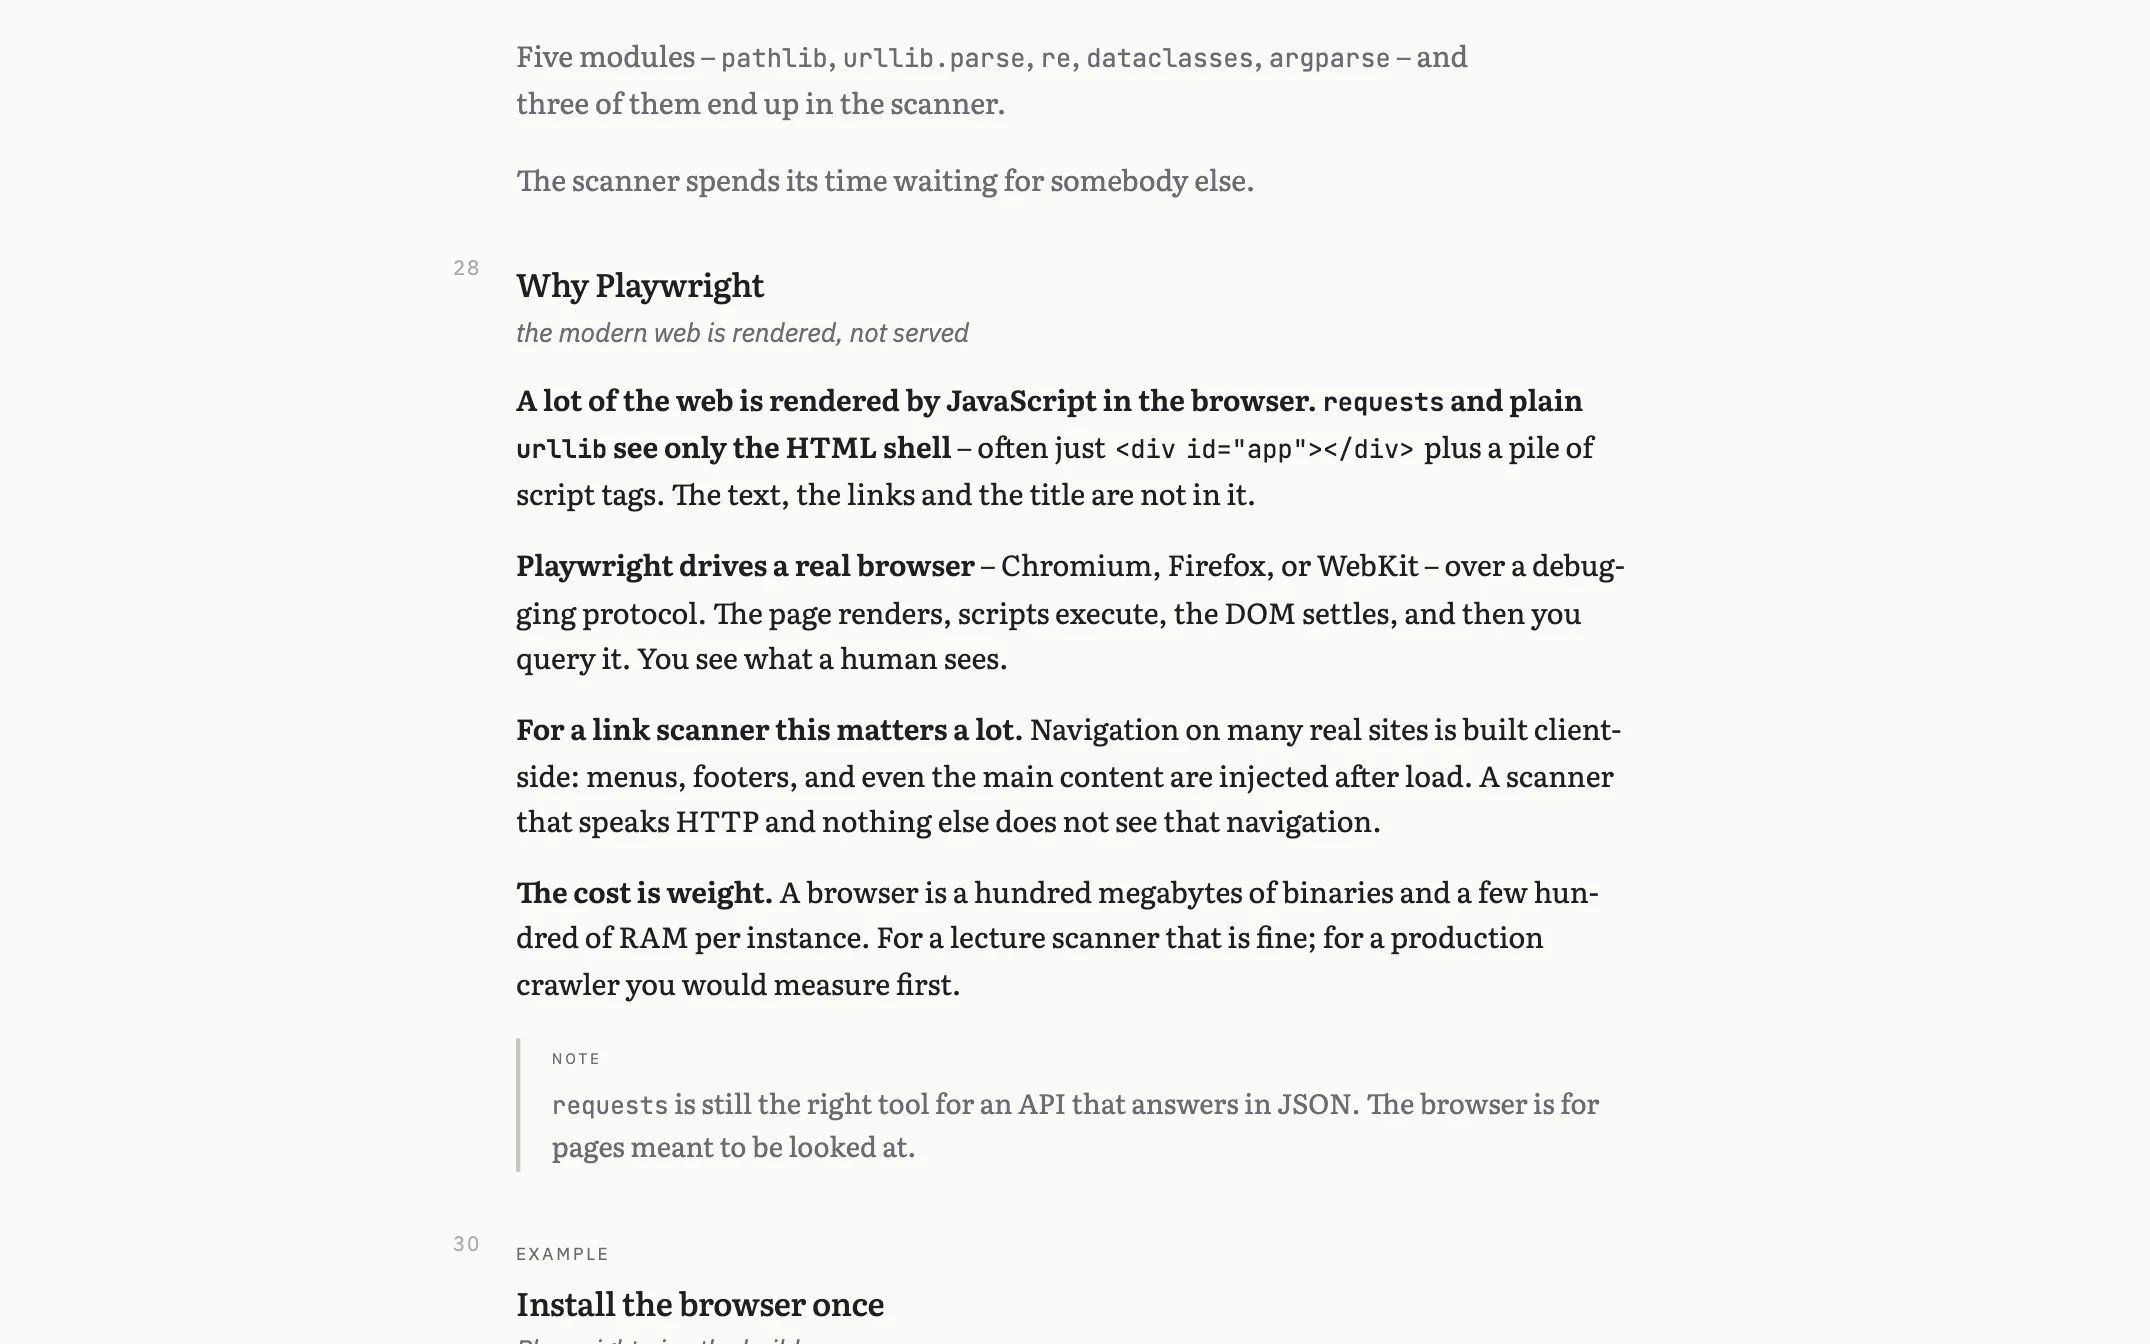
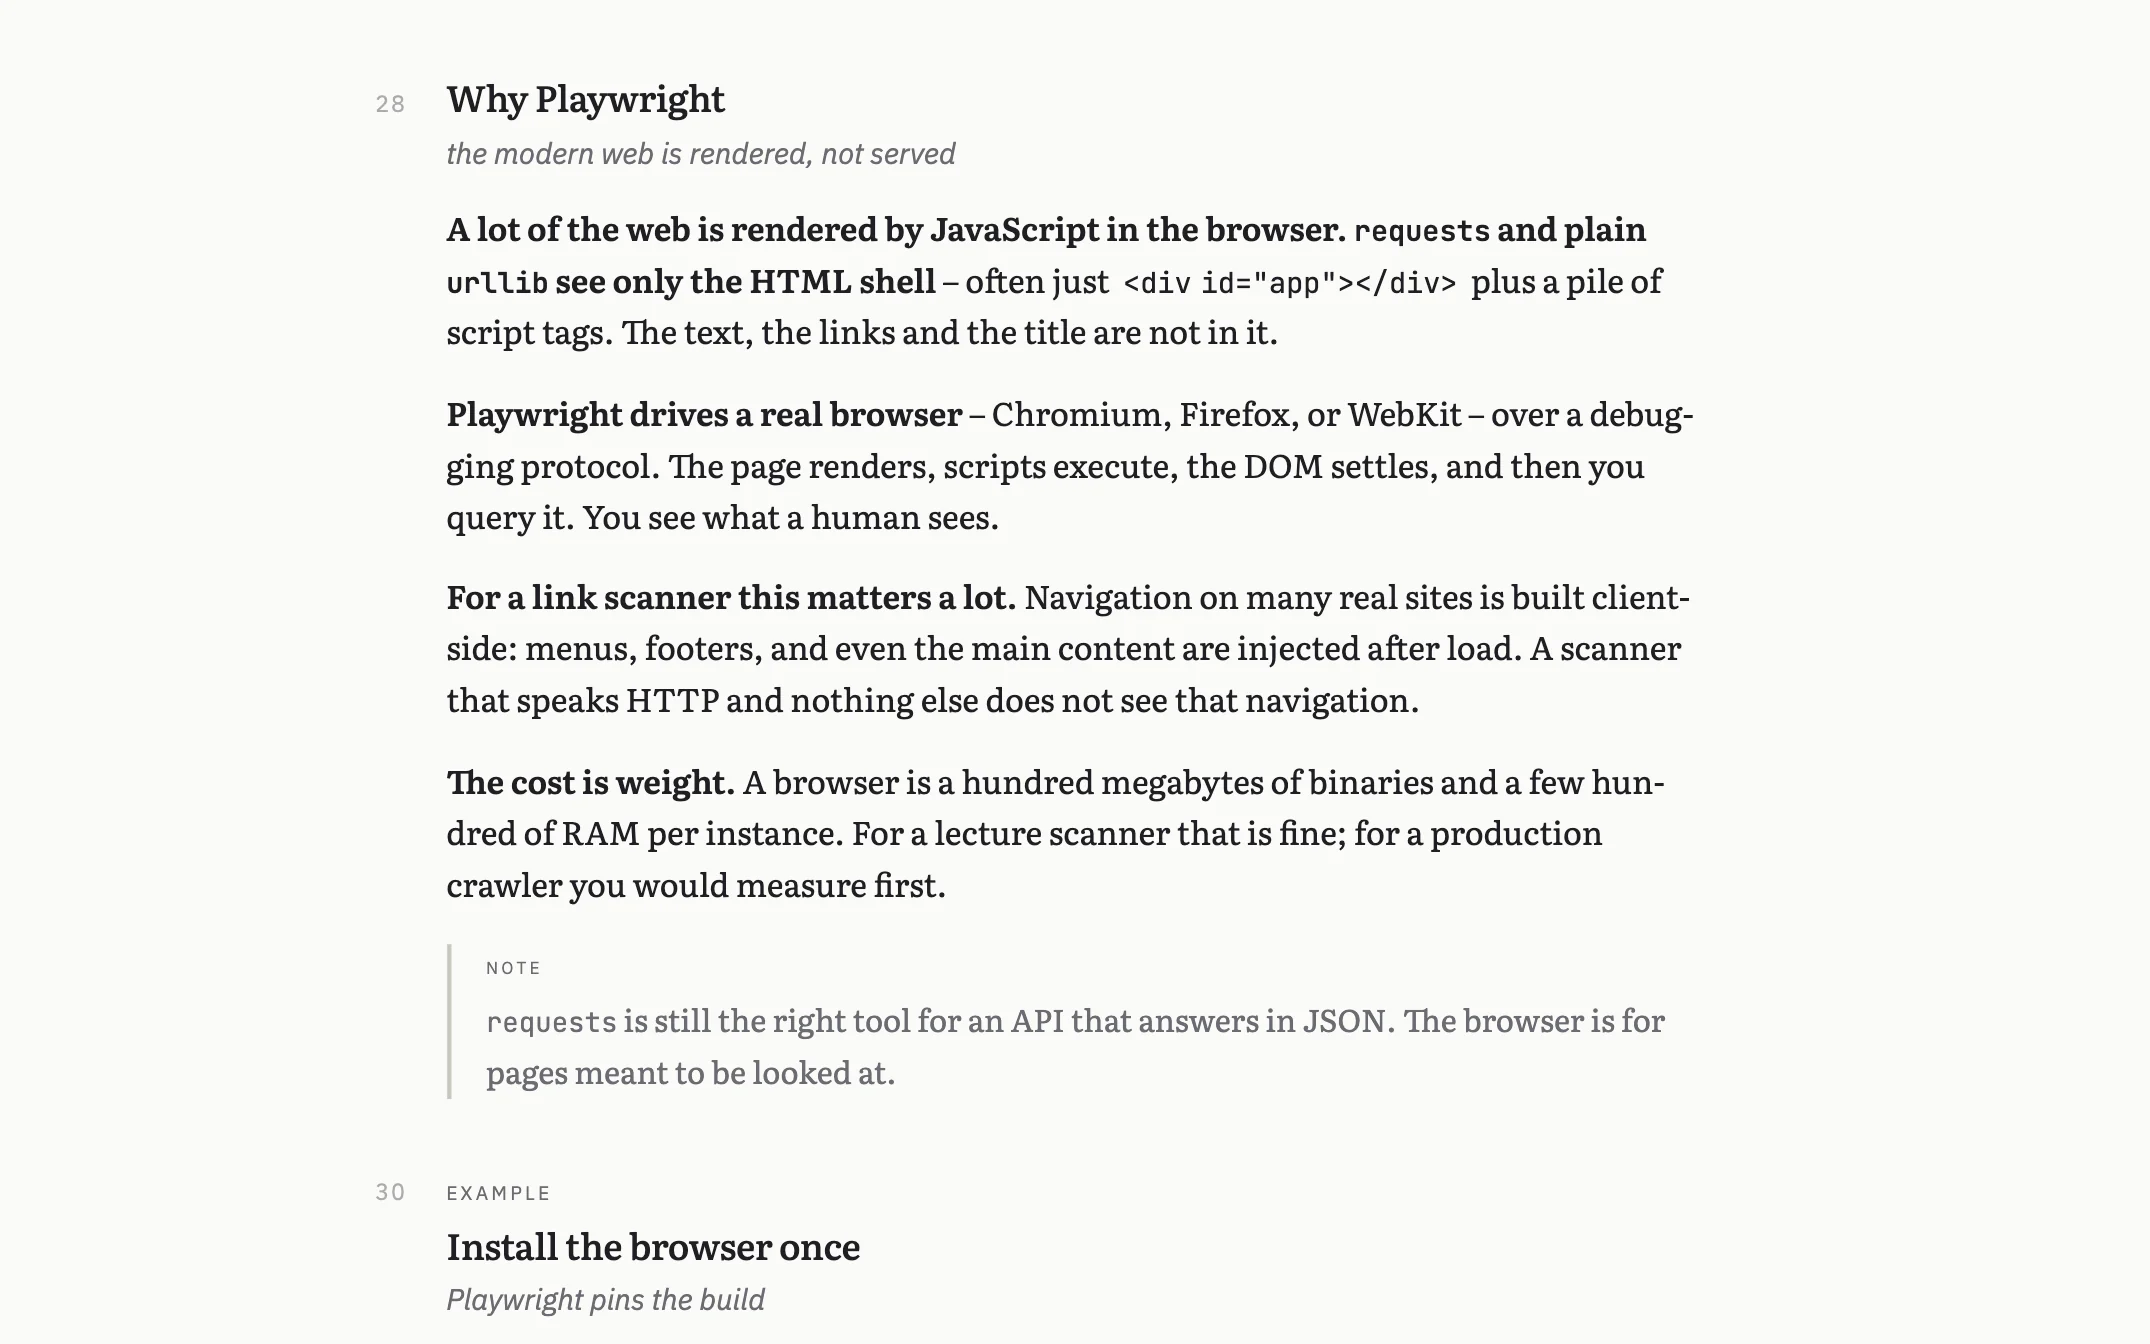
python-intro shots re-taken after the engine moved: reader tools, start menu
The drift was the engine's, not the lecture's. Per shot:

- printed: paper, so no reader tools. A new PAPER_RIG takes rd-ready and
  the Contents button away again, which puts the text back in the centre
  (print media was tried: without @page the text sits against the left edge
  and loses its margin numbers). Framed from the chunk's heading now.
- handout, handout-plain: the file in a browser window, so the Contents
  button stays - it is what a reader of print.html sees. The crop went from
  470 to 640 rows, starting at the chunk's heading: since the screen type
  grew to 15px, 470 rows ended above the margin note and the speaker note,
  and the switch swapped two identical pictures. Geometry identical between
  the two, as before. The handout-plain alt text (EN and DE) names the
  button.
- full, overview: the python-intro live rows set PSI_NO_START_MENU, the
  runtime's own switch for a probe, so the reopen chevron no longer stands
  beside the ? circle. The ? circle stays, as composed. Both reproduce byte
  for byte over two runs and differ from the committed files.
- collapsed, search, annotation, slides-pdf: reproduce the committed files
  (within 2% fuzz); kept.
- cockpit: two runs differ from each other more than from the committed
  file; noise, kept.

DESIGN.md's crop paragraph records why 470 became 640.

Claude-Session: https://claude.ai/code/session_011ex4dRFb8TSZ1NDMNm82aV

Changed region(s): [[0.187, 0.0312, 0.7791, 0.875], [0.187, 0.875, 0.4051, 1.0]]

diff --git a/docs/site/index.de.html b/docs/site/index.de.html
@@ -476,14 +476,14 @@ browser is for pages meant to be looked at.
            <button type="button" aria-pressed="true"
                    data-src="../img/handout-plain.webp"
                    data-name="print.html"
-                   data-alt="Das Handout für die Studierenden: derselbe Chunk als fließender Blocksatz mit Silbentrennung und die Randnotiz am Seitenrand.">für die Studierenden</button>
+                   data-alt="Das Handout für die Studierenden, im Browser geöffnet: derselbe Chunk als fließender Blocksatz mit Silbentrennung, die Randnotiz am Seitenrand und unten links die Schaltfläche für das Inhaltsverzeichnis.">für die Studierenden</button>
            <button type="button" aria-pressed="false"
                    data-src="../img/handout.webp"
                    data-name="print-notes.html"
                    data-alt="Dasselbe Dokument mit der Sprechernotiz in einem getönten Block unter dem Chunk.">mit den Notizen</button>
          </span>
        </div>
-       <img src="../img/handout-plain.webp" alt="Das Handout für die Studierenden: derselbe Chunk als fließender Blocksatz mit Silbentrennung und die Randnotiz am Seitenrand.">
+       <img src="../img/handout-plain.webp" alt="Das Handout für die Studierenden, im Browser geöffnet: derselbe Chunk als fließender Blocksatz mit Silbentrennung, die Randnotiz am Seitenrand und unten links die Schaltfläche für das Inhaltsverzeichnis.">
      </figure>
    </div>
   </div>

diff --git a/docs/site/index.html b/docs/site/index.html
@@ -469,14 +469,14 @@ browser is for pages meant to be looked at.
            <button type="button" aria-pressed="true"
                    data-src="img/handout-plain.webp"
                    data-name="print.html"
-                   data-alt="The handout for the students: the same chunk set as flowing justified prose with hyphenation and the margin note as an aside.">for the students</button>
+                   data-alt="The handout for the students, open in a browser: the same chunk set as flowing justified prose with hyphenation, the margin note as an aside, and the Contents button in the lower left corner.">for the students</button>
            <button type="button" aria-pressed="false"
                    data-src="img/handout.webp"
                    data-name="print-notes.html"
                    data-alt="The same document with the speaker note folded in under the chunk, in a tinted block.">with your notes</button>
          </span>
        </div>
-       <img src="img/handout-plain.webp" alt="The handout for the students: the same chunk set as flowing justified prose with hyphenation and the margin note as an aside.">
+       <img src="img/handout-plain.webp" alt="The handout for the students, open in a browser: the same chunk set as flowing justified prose with hyphenation, the margin note as an aside, and the Contents button in the lower left corner.">
      </figure>
    </div>
   </div>

diff --git a/TODO-docs-2.0.0.md b/TODO-docs-2.0.0.md
@@ -226,7 +226,7 @@ on the pages as they then stand.
 - [x] Browser suite after the prose passes: 1737 passed, 0 failed.
 - [x] Site shots re-shot: `deco-display-cover`, the five decoration tiles (slide numbers moved, `deco-dock` wording), `editor` (figure count 33), `figure` (larger raster, same drawing), `cue-beat-0`/`-1` (invisible but reproducible), `builder-lecture.webp` with its alt texts. `deco-display-divider` unchanged. `shoot.mjs`'s PDF sheet reads the `psiINT-pdf-p` wrapper id.
 - [ ] Prompter shots `prompter-hint` and `prompter-hint-de` are stale (`#two-numbers` note changed) – `shoot-prompter.mjs` costs model calls, not run.
-- [ ] python-intro shots drifted with the engine, not re-shot: `printed`, `handout`, `handout-plain` (the reader tools' Contents button and a shifted column), `full` (the start-menu chevron beside `?`), small drift in `cockpit`, `collapsed`, `overview`, `search`, `annotation`.
+- [x] python-intro shots re-shot: `printed` without the reader tools (paper), `handout` / `handout-plain` with them, 640 rows from the chunk's heading so the notes are in frame; `full` and `overview` with the start menu kept shut (`PSI_NO_START_MENU`). `collapsed`, `search`, `annotation`, `slides-pdf` reproduce the committed files; `cockpit` differs only run to run – kept.
 - [ ] Desktop smoke, parity step: 2 failures – slides.pdf page 9 (`#arrows` beat 1) fits at zoom 0.95 in the app and 0.9 on the command line, so 3 pages' text differs.
 - [ ] python-intro: „the hour ahead“ vs „all afternoon“ – left because of the shots.
 - [ ] spoken-talk `#board`: sub-heading says „six steps“, the drawing has three boxes – check.

diff --git a/docs/site/DESIGN.md b/docs/site/DESIGN.md
@@ -77,7 +77,10 @@ does:
    the crop is reproducible. The two handout shots went from 690 to 470
    viewport rows for that reason: the second chunk of the document carried
    nothing the first did not, and the shot was 762px tall against 240px of
-   words beside it.
+   words beside it. A crop is measured against the type it was composed
+   at: when the documents' screen type grew from 13.3 to 15px, 470 rows
+   ended above the chunk's notes, and the crop became 640 rows starting at
+   the chunk's own heading.
 
 The cue stays **outside** the stage on purpose. Inside it, the triad
 collapses to two and the device loses the job it was built for.
